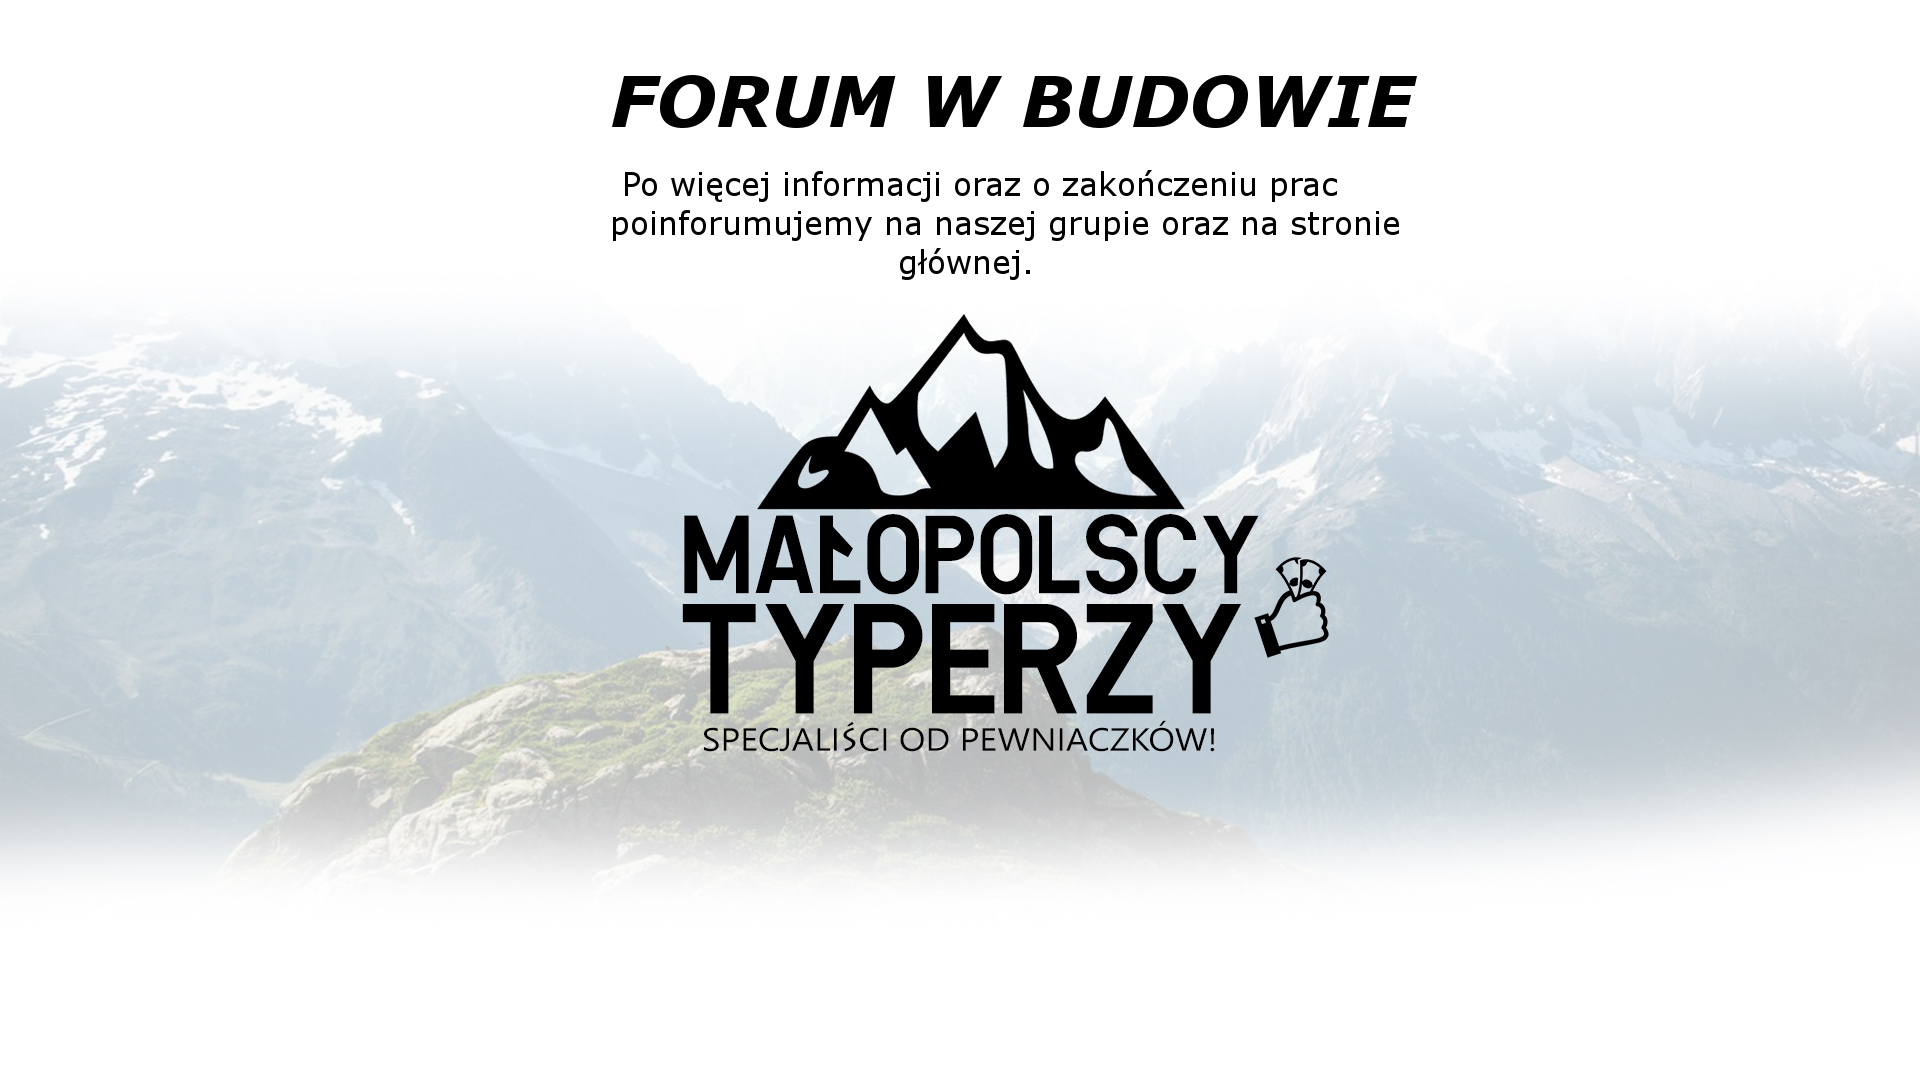
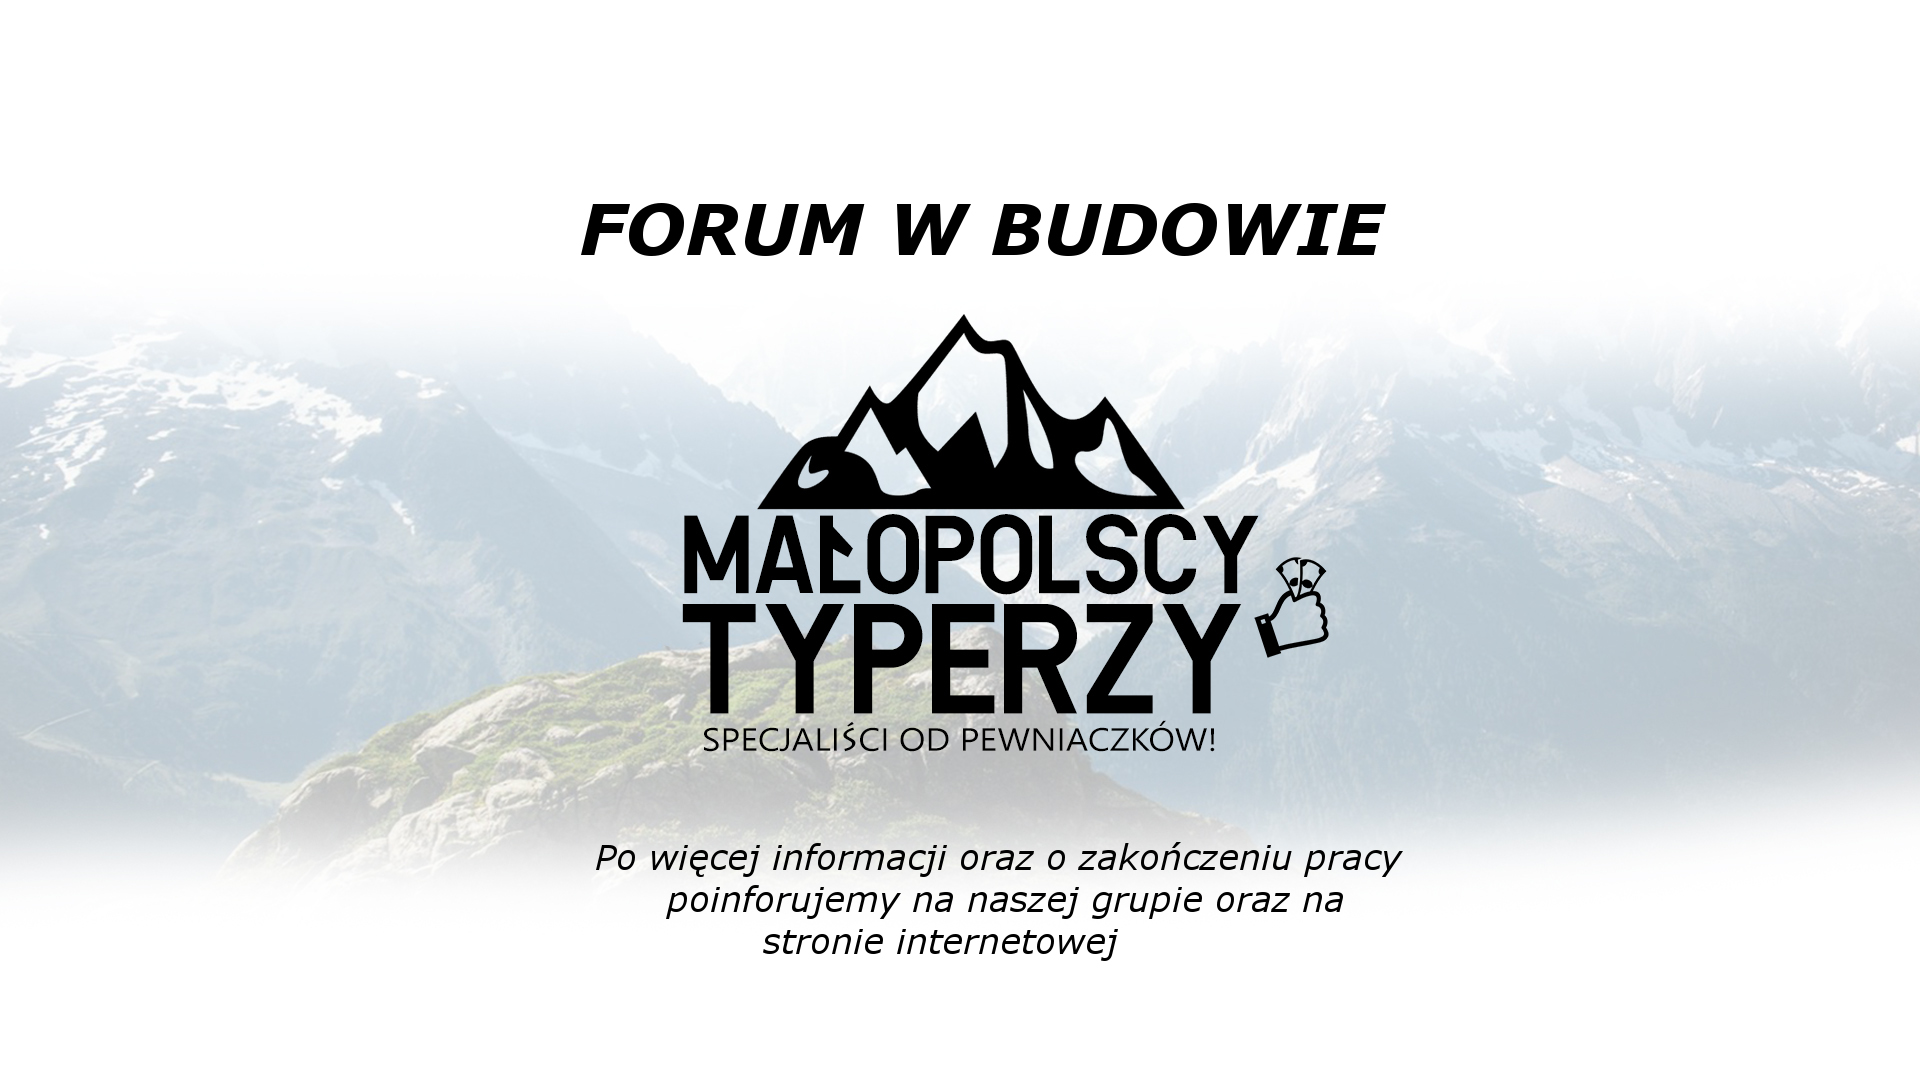
zmieniono zdjęcie o forum

Changed region(s): [[0.2812, 0.1528, 0.7188, 0.275], [0.3125, 0.7639, 0.7188, 0.8861], [0.3125, 0.0611, 0.75, 0.1222]]

diff --git a/website_add/forum.html b/website_add/forum.html
@@ -47,7 +47,7 @@
         }
     </style>
 
-    <link rel='stylesheet' id='trefecta-social-publish-css' href='forum.css' type='text/css' media='all' />
+    <link rel='stylesheet' id='trefecta-social-publish-css' href='../main.css' type='text/css' media='all' />
     <link rel="stylesheet" href="https://use.fontawesome.com/releases/v5.8.1/css/all.css"
         integrity="sha384-50oBUHEmvpQ+1lW4y57PTFmhCaXp0ML5d60M1M7uH2+nqUivzIebhndOJK28anvf" crossorigin="anonymous">
 
@@ -73,6 +73,129 @@
         }(document, 'script', 'facebook-jssdk'));
     </script>
 
-    <body>
-        <a href="https://xioe.github.io"><button>WRÓĆ NA STRONĘ GŁÓWNĄ</button></a>
-    </body>
+    <div id="container">
+
+        <header class="nav-bar">
+            <!-- logo -->
+            <a href="https://xioe.github.io">
+                <h1><img src="../assets/images/logo-white.png" style="position: absolute; height: 180%; top:-25%;">
+
+                </h1>
+            </a>
+
+            <!-- mobile nav -->
+            <a href="#" id="nav-opener"><span>Menu</span></a>
+
+
+            <!-- navigation -->
+            <nav>
+                <a id="nav-close" href="#"><i class="icon close-menu-icon"></i></span><span>Zamknij</span></a>
+                <div class="menu-main-navigation-container">
+                    <ul id="menu-main-navigation" class="menu">
+                        <li id="menu-item-104"
+                            class="menu-item menu-item-type-post_type menu-item-object-page menu-item-104"><a
+                                href="#">KIM JESTEŚMY?</a></li>
+                        <li id="menu-item-442"
+                            class="menu-item menu-item-type-post_type menu-item-object-page menu-item-442"><a
+                                href="#">GRAMY Z...</a></li>
+                        <li id="menu-item-584"
+                            class="menu-item menu-item-type-post_type menu-item-object-page menu-item-584"><a
+                                href="https://xioe.github.io/website_add/forum.html">WASZE KUPONY I ANALIZY</a></li>
+                        <li id="menu-item-1310"
+                            class="menu-item menu-item-type-post_type menu-item-object-page menu-item-1310"><a
+                                href="https://xioe.github.io/website_add/contact.html">KONTAKT</a></li>
+                    </ul>
+                    <div id="nav-active"></div>
+                </div>
+
+
+                <div class="nav-dropdown">
+                    <a href="https://facebook.com/group/malopolscytyperzy/" class="nav-dropdown-open"><i
+                            class="fab fa-facebook-f fa-2x"></i></a>
+                    <a href="#" class="nav-dropdown-open"><i class="fab fa-instagram fa-2x"></i></a>
+                </div>
+            </nav>
+        </header>
+
+        <!-- Hero -->
+        <section id="main-view" style="height:500px;">
+            <div class="view home show-newsletter">
+                <section class="hero">
+                    <div class="slideshow" style="transform: matrix(1, 0, 0, 1, 0, 0);">
+                        <div class="slide  slide-type-image title-color-black active">
+                            <div class="slide-image wait-for-image responsive-done image-loaded responsive-ok"
+                                style="background-image: url(../assets/images/malopolscyTyperzy_forum.jpg);">
+                            </div>
+                        </div>
+                    </div>
+                </section>
+
+                <div id="content-blend"></div>
+
+                <footer class="bottom">
+                    <div class="footer-inner">
+                        <ul>
+                            <li id="menu-item-699"
+                                class="menu-item menu-item-type-post_type menu-item-object-page menu-item-699">
+                                <a href="#" style="position: absolute; left:40%;">All rights reserved &copy 2019
+                                </a></li>
+                        </ul>
+                    </div>
+                </footer>
+
+                <div id="cookie">
+                    <p>This website uses cookies to allow us to see how the site is used. <a href="#"
+                            class="cookie-choice cookie-accept">Allow cookies</a><a href="#"
+                            class="cookie-choice cookie-close"><i class="icon close-icon"></i></a>
+                    </p>
+                </div>
+            </div>
+
+            <div id="image-loader" style="display: none;">
+                <!-- used for js image loading  -->
+            </div>
+
+
+            <div id="intro-animation">
+                <div class="intro-logo">
+                    <div class="intro-logo-back"></div>
+                    <div class="intro-logo-front"></div>
+                </div>
+            </div>
+
+            <script>
+                window.TFA = window.TFA || {};
+                TFA.SITE_URL = 'https://www.trefectamobility.com';
+                TFA.TEMPLATE_URL = 'https://www.trefectamobility.com/wp-content/themes/trefecta-phase-2';
+                TFA.PLUGIN_URL = 'https://www.trefectamobility.com/wp-content/plugins';
+                TFA.AJAX_URL = 'https://www.trefectamobility.com/wp-admin/admin-ajax.php';
+                TFA.DEV = false;
+                TFA.IS_MAGENTO = false;
+                TFA.MAGENTO_JS_DIR = '/store/skin/frontend/default/trefecta/js/';
+            </script>
+
+            <script data-main="https://www.trefectamobility.com/wp-content/themes/trefecta-phase-2/js/main-build"
+                src="https://www.trefectamobility.com/wp-content/themes/trefecta-phase-2/js/vendor/requirejs/require.js">
+            </script>
+            <script>
+                var _gaq = [
+                    ['_setAccount', 'UA-1677031-14'],
+                    ['_trackPageview']
+                ];
+                (function (d, t) {
+                    var g = d.createElement(t),
+                        s = d.getElementsByTagName(t)[0];
+                    g.src = '//www.google-analytics.com/ga.js';
+                    s.parentNode.insertBefore(g, s)
+                }(document, 'script'));
+            </script>
+
+</body>
+
+</html>
+
+<!-- Performance optimized by W3 Total Cache. Learn more: http://www.w3-edge.com/wordpress-plugins/
+
+Page Caching using disk: enhanced
+
+ Served from: www.trefectamobility.com @ 2019-04-03 13:14:24 by W3 Total Cache -->

diff --git a/website_add/forum.css b/website_add/forum.css
@@ -1,23 +1,5 @@
-* {
+.main-view{
     background-image: url(../assets/images/malopolscyTyperzy_forum.jpg);
-}
-
-button {
-    text-align: center;
-    margin-top: 25%;
-    margin-left: 10%;
-    width: 250px;
-    height: 50px;
-    border-radius: 50px;
-    background-color: azure;
-}
-
-button:hover {
-    text-align: center;
-    margin-top: 25%;
-    margin-left: 10%;
-    width: 250px;
-    height: 50px;
-    border-radius: 50px;
-    background-color: aqua;
+    width: 100%;
+    height: 100%;
 }
